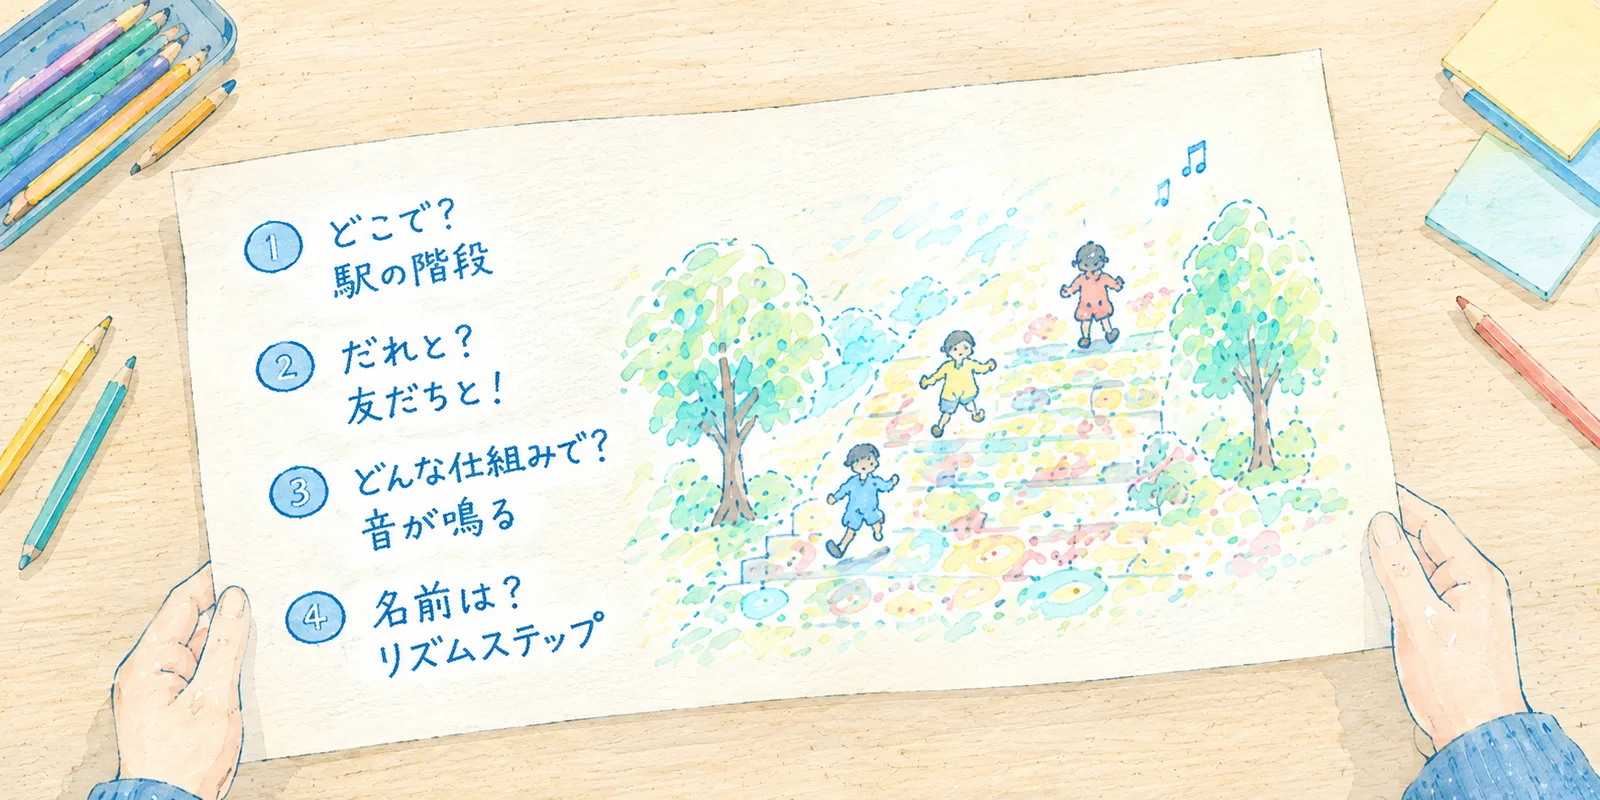
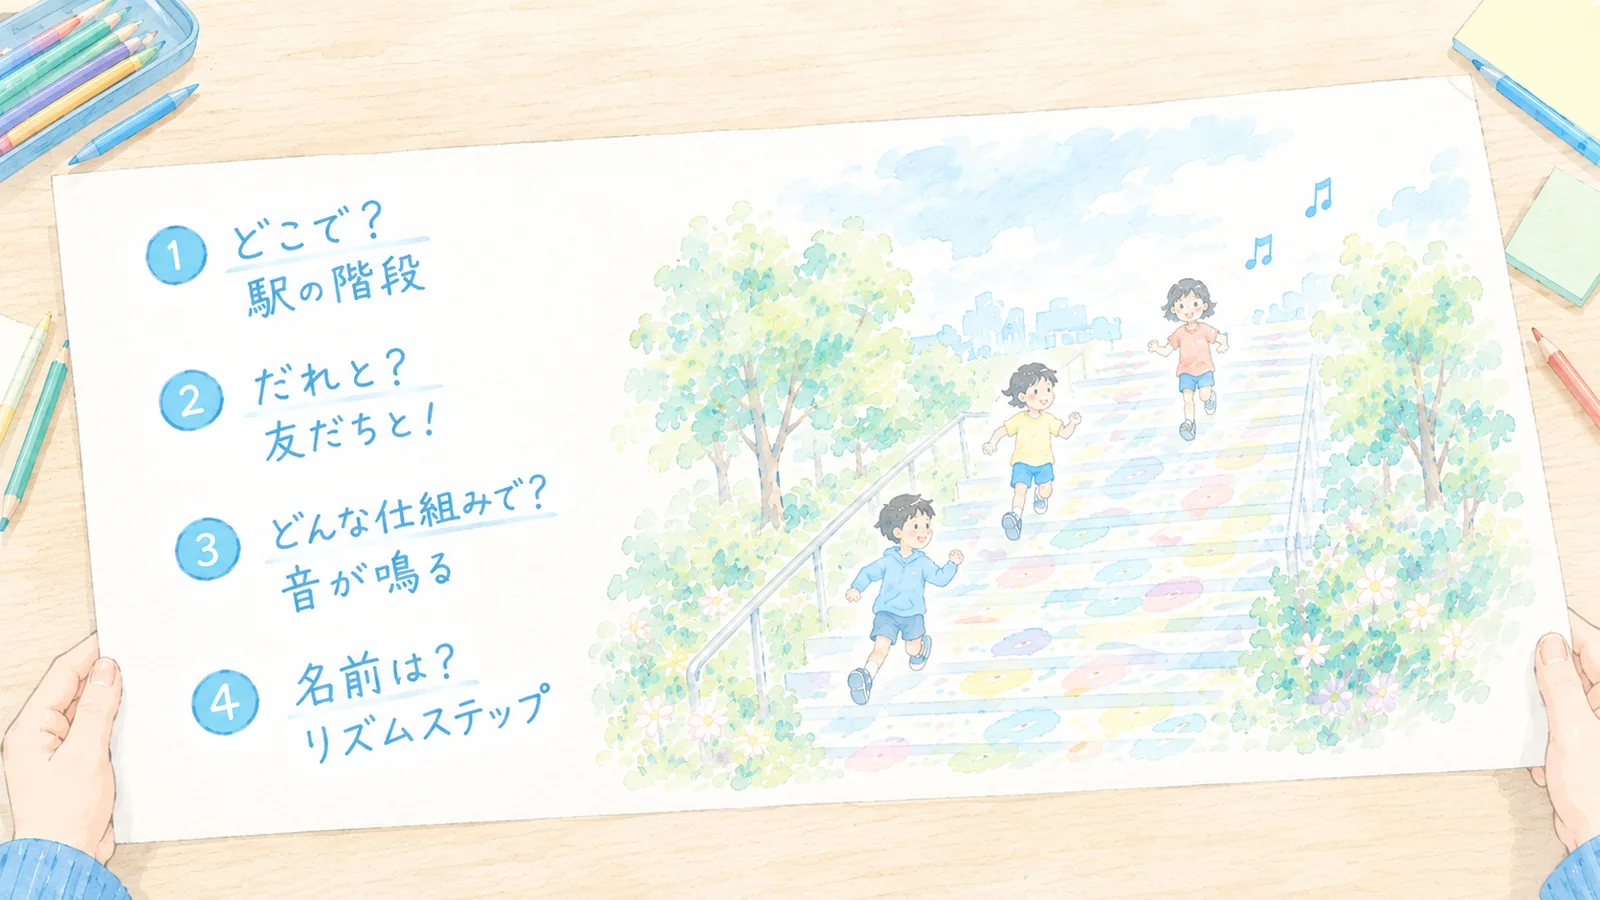
Swap in the updated idea sheet example
アイデアシートの記入例を新しい画像に差し替え（1600x900 / 122KB）。
縦横比が 2.0 から 1.78 に変わったため width/height 属性も更新し、
代替テキストを新しい絵の内容に合わせた。キャッシュ対策に ?v=2 を付与。

diff --git a/index.html b/index.html
@@ -875,8 +875,8 @@ footer a{color:#fff;text-decoration:none;border-bottom:1px solid rgba(255,255,25
       <p>文章より絵が中心。実現できるかどうかは、いったん置いておいて大丈夫です。</p>
     </div>
     <figure class="sheet-example rv">
-      <img src="assets/sheet-example.webp" width="1600" height="800" loading="lazy" decoding="async"
-        alt="アイデアシートの記入例。① どこで？駅の階段、② だれと？友だちと！、③ どんな仕組みで？音が鳴る、④ 名前は？リズムステップ。右側には、音符が鳴る階段を子どもたちが上っていく絵が描かれている。">
+      <img src="assets/sheet-example.webp?v=2" width="1600" height="900" loading="lazy" decoding="async"
+        alt="アイデアシートの記入例。① どこで？駅の階段、② だれと？友だちと！、③ どんな仕組みで？音が鳴る、④ 名前は？リズムステップ。右側には、色とりどりの丸が描かれた階段を子どもたちがかけ上がり、音符が鳴っている絵が描かれている。">
     </figure>
     <div class="sheets">
       <div class="sheet rv"><h3>どこで？</h3><p>宇治のあの道、あの階段、あの川べり。知っている場所を選びます。</p></div>
